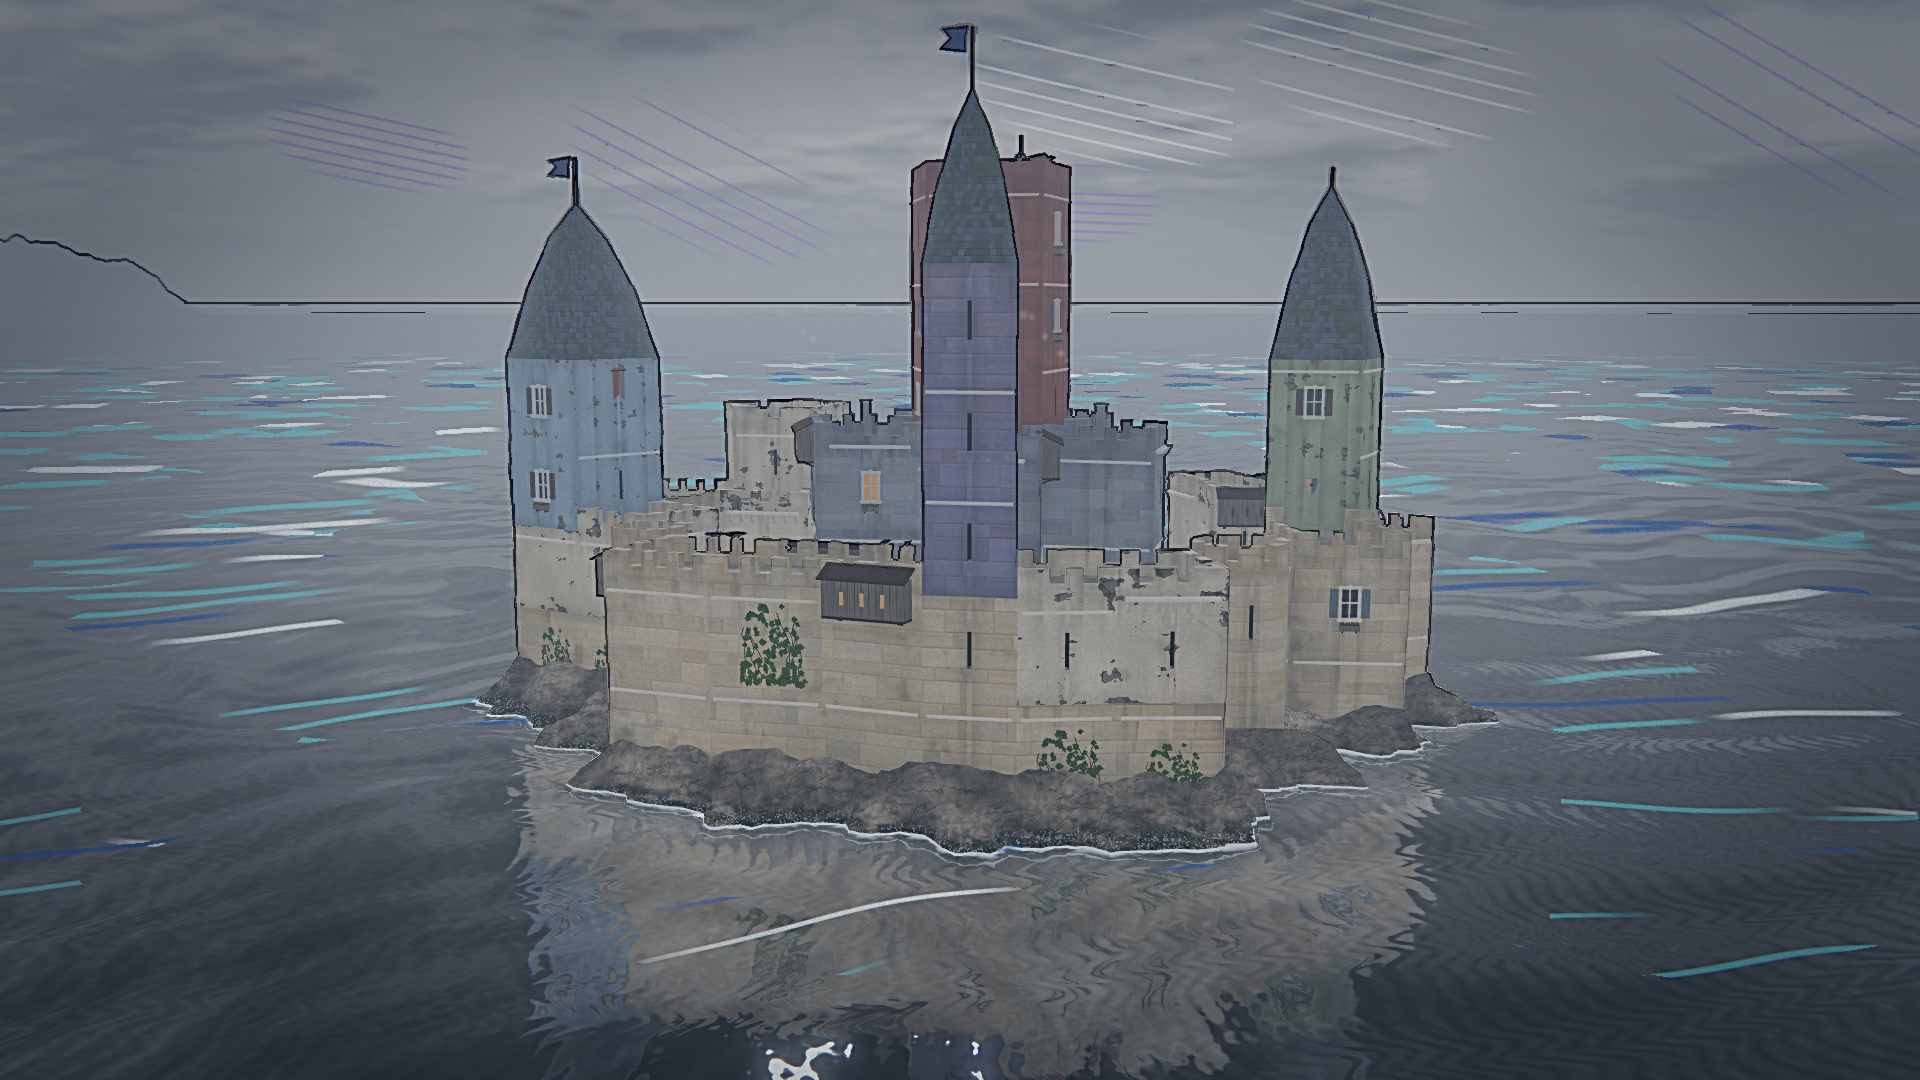
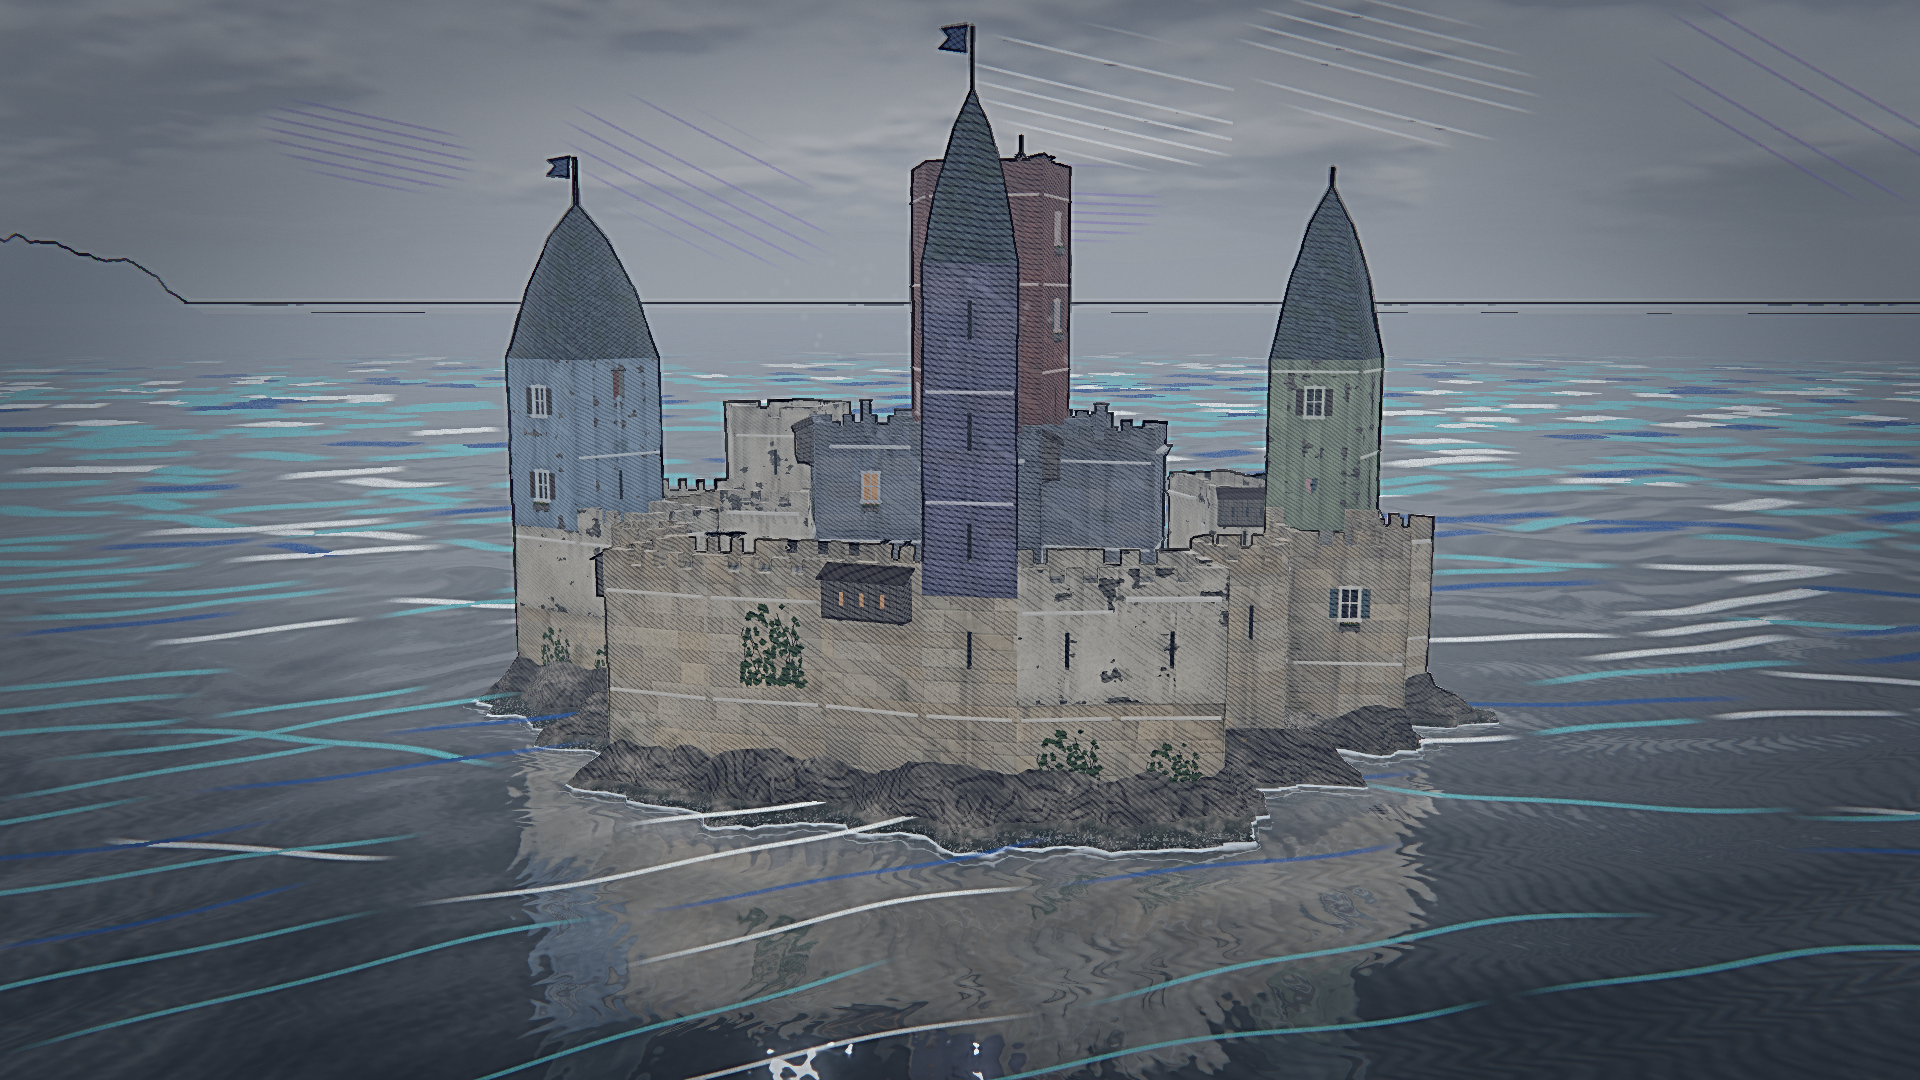
Pen: world-space shadow hatching and coloured-pencil wash on the castle; water told from stone by world height

diff --git a/SPEC.md b/SPEC.md
@@ -218,8 +218,12 @@ difference), one wobbly horizon line, dashed cloud edges (from the sky's brightn
 the sky (pinned to the sky dome by the view direction) and long wavy strokes on the sea (pinned to the water plane by the ray-plane hit, two crossing
 sets, fading out by 700 m), in lilac / blue / white / grey and teal / white / blue, never on the castle (the sea strokes stop at anything solid in front
 of the water). No ink under the water (the sea floor's far edge drew a second horizon). Cost: High 151 -> 143 fps. Compared with the two starred pictures
-in `castle-scaper-realistic-art/reference/compare/pen_*.jpg`. Not matched: the mock-up's hatching in shadow and its colour-pencil wash over the walls;
-the game draws only lines on the castle (a stroke texture for walls and roofs would need a UV or screen-space pencil layer).
+in `castle-scaper-realistic-art/reference/compare/pen_*.jpg`. Round 2 of the pen (same day, Kevin: "yes, do" the hatching and wash): on every solid pixel above the water the pass now also draws **pen hatching in the
+shadows** (diagonal strokes, cross strokes in the deepest shade, by luminance) and a **coloured-pencil wash** over the lit walls and roofs (broad strokes that
+pull the surface's own colour further, a paper grain), both laid in WORLD space (planes through the reconstructed world position, so they stay on the stone
+when the camera moves) and faded into a flat tone when a stroke is under ~3 px. Light = hatch 0.55 / wash 0.6, Full = 1.0 / 1.0 (heavier line, creases,
+more scribbles). A solid pixel counts as water when its world height is within 0.55 m of the sea level (the water writes depth too: a ray-plane test
+misclassified wave troughs and hatched the sea). Cost on High: 152 fps with Light, 115 with Full (Off 151 before; Light costs little).
 
 ## 7. The editor (`scripts/cs_main.gd`, `scripts/cs_ui.gd`)
 
